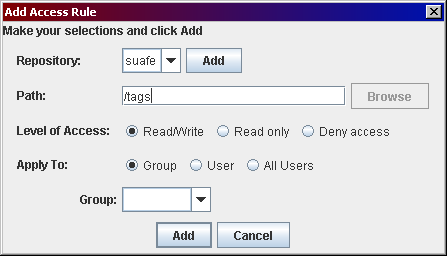
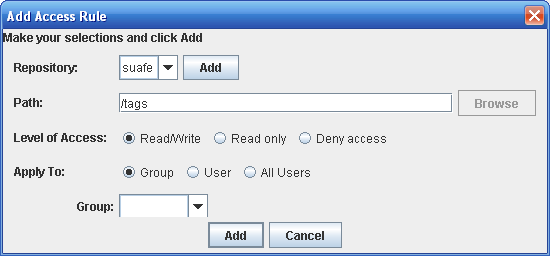
Fixed problems with add remove members and change membership dialogs. Updated help documentation and refreshed some screenshots. Added file operation buttons to the toolbar.

Changed region(s): [[0.0, 0.0, 1.0, 1.0]]

diff --git a/src/org/xiaoniu/suafe/resources/help/en/access_rules_tab.html b/src/org/xiaoniu/suafe/resources/help/en/access_rules_tab.html
@@ -1,0 +1,50 @@
+<html>
+<head>
+<title>Access Rules Tab</title>
+</head>
+<body>
+<h1>Access Rules Tab</h1>
+
+<h2>Overview</h2>
+<p>
+The Access Rules Tab consists of three sections. The left list displays all 
+repositories and paths defined in the authorization file formatted as a tree. 
+The right side displays all access rules for the item selected on in the tree. 
+Selecting Server displays all access rules, including server level access rules.
+Selecting a repository displays all access rules for that repository and 
+selecting a path displays all access rules for the path.
+</p>
+
+<img src="access_rules_tab.png" alt="Access Rules tab" />
+
+<h2>Actions</h2>
+<p>
+Located below the tree of repositories and paths are the repository/path action
+buttons. These buttons change depending on the item selected in the tree. When
+a repository item is selected the Edit Repository and Delete Repository action
+buttons are available. WHen a path item is selected the Edit Path and Delete
+Path action buttons are available. No actions are available when Server is
+selected.
+</p>
+
+<p>
+Located below the table of access rules are the access rule action buttons.
+Edit and Delete Access Rule buttons are available. Double-clicking an Access
+Rule opens the access rule in the edit access rule window.
+</p>
+
+<p>
+New repositories may be added in the Add Access Rule screen. New paths are 
+added automatically when a unknown path is entered in the Add Access Rule 
+screen. 
+</p>
+
+<h2>Considerations</h2>
+<p>
+Editing or deleting a repository will modify or delete all access rules defined
+for that repository. Editing or deleting a path will modify or delete all 
+access rules defined for that path.
+</p>
+
+</body>
+</html>

diff --git a/src/org/xiaoniu/suafe/resources/help/en/groups_tab.html b/src/org/xiaoniu/suafe/resources/help/en/groups_tab.html
@@ -1,0 +1,51 @@
+<html>
+<head>
+<title>Groups Tab</title>
+</head>
+<body>
+<h1>Groups Tab</h1>
+
+<h2>Overview</h2>
+<p>
+The Groups Tab consists of three sections. The far left list displays all 
+current defined groups. The upper right section displays all members of the
+currently selected group. The lower right section displays all access rules 
+that reference the currently selected group. Selecting a different group
+automatically refreshes the two right sections.
+</p>
+
+<img src="groups_tab.png" alt="Groups tab" />
+
+<h2>Actions</h2>
+<p>
+Located group list are the group action buttons. Clicking on Add
+allows you to add another group. Clicking edit displays the edit screen for all
+currently selected groups. Clicking delete deletes all currently selected 
+groups.
+</p>
+
+<p>
+Below the group members list is the Add/Remove Members action button. This
+allows you to add and remove members from the selected groups.
+</p>
+
+<p>
+Double-clicking on a group in the group list displays the edit screen for the
+selected group. Double-clicking on a member name in the member list displays
+the member. Selected groups and group details are displayed in the Groups tab
+and users and user details are displayed in the 
+<a href="users_tab.html">Users Tab</a>.
+</p>
+
+<h2>Considerations</h2>
+<p>
+Groups with no members and groups that are not referenced are persisted.
+</p>
+
+<p>
+Deleting a group also deletes all access rules that reference that group. Group
+members are not deleted.
+</p>
+
+</body>
+</html>

diff --git a/src/org/xiaoniu/suafe/resources/help/en/users_tab.html b/src/org/xiaoniu/suafe/resources/help/en/users_tab.html
@@ -18,16 +18,18 @@ user automatically refreshes the two right sections.
 
 <h2>Actions</h2>
 <p>
-Located above the list of groups are the user action buttons. Clicking on Add
+Located below the user list are the user action buttons. Clicking on Add
 allows you to add another user. Clicking edit displays the edit screen for all
-currently selected users. Clicking delete deletes all currently selected users
-as well as all access rules that reference the user.
+currently selected users. Clicking delete deletes all currently selected users.
 </p>
 
-<img src="users_action_buttons.png" alt="User action buttons" />
+<p>
+Below the group list box is the Change Group Membership action button. This
+allows you to add/remove the user from defined groups.
+</p>
 
 <p>
-Double-clicking on a user in the user list displays the edit screen for the
+Double-clicking on a user name in the user list displays the edit screen for the
 selected user. Double-clicking on a group name in the group list displays
 the group and group details in the <a href="groups_tab.html">Groups Tab</a>.
 </p>
@@ -36,6 +38,10 @@ the group and group details in the <a href="groups_tab.html">Groups Tab</a>.
 <p>
 Users created, but not referenced by any access rules or made a member of a 
 group will not be persisted when the file is saved.
+</p>
+
+<p>
+Deleting a user will delete all access rules defined for that user.
 </p>
 
 </body>

diff --git a/src/org/xiaoniu/suafe/resources/help/en/main_screen.html b/src/org/xiaoniu/suafe/resources/help/en/main_screen.html
@@ -1,0 +1,27 @@
+<html>
+<head>
+<title>Main Screen</title>
+</head>
+
+<body>
+<h1>Main Screen</h1>
+
+<p>
+The main screen consists of a toolbar and three tabs.
+
+<ul>
+<li><a href="toolbar.html">Toolbar</a></li>
+<li><a href="users_tab.html">Users Tab</a></li>
+<li><a href="groups_tab.html">Groups Tab</a></li>
+<li><a href="access_rules_tab.html">Access Rules Tab</a></li>
+</ul>
+
+The toolbar provides quick access to general file actions as well as quick
+access to add users, groups and access rules. Select one of the three tabs to
+view and manipulate the lists of users, groups or access rules. The preview
+button generates an authz file and displays it for your review. Changes to the 
+contents of the preview window are not persisted; preview is for review only.
+</p>
+
+</body>
+</html>

diff --git a/src/org/xiaoniu/suafe/resources/help/en/toc.html b/src/org/xiaoniu/suafe/resources/help/en/toc.html
@@ -13,12 +13,15 @@
 <li><a href="limitations.html">Limitations</a></li>
 <li><a href="gpl_license.txt">GNU General Public License</a></li>
 <li><a href="tmate_license.html">The TMate License</a></li>
+<li><a href="files.html">Authorization Files</a></li>
 </ul>
 
 <strong>Using Suafe</strong>
 <ul>
-<li><a href="files.html">Authorization Files</a></li>
+<li><a href="main_screen.html">Main Screen</a></li>
 <li><a href="users_tab.html">Users Tab</a></li>
+<li><a href="groups_tab.html">Groups Tab</a></li>
+<li><a href="access_rules_tab.html">Access Rules Tab</a></li>
 </ul>
 
 </body>

diff --git a/src/org/xiaoniu/suafe/frames/MainFrame.java b/src/org/xiaoniu/suafe/frames/MainFrame.java
@@ -119,6 +119,11 @@ public class MainFrame extends BaseFrame implements ActionListener, KeyListener,
 		ListSelectionListener, MouseListener, TreeSelectionListener, WindowListener {
 	
 	private static final long serialVersionUID = -4378074679449146788L;
+	private ImageIcon newIcon = new ImageIcon(getClass().getResource("/org/xiaoniu/suafe/resources/toolbarButtonGraphics/general/New16.gif"));
+	private ImageIcon openIcon = new ImageIcon(getClass().getResource("/org/xiaoniu/suafe/resources/toolbarButtonGraphics/general/Open16.gif"));
+	private ImageIcon saveIcon = new ImageIcon(getClass().getResource("/org/xiaoniu/suafe/resources/toolbarButtonGraphics/general/Save16.gif"));
+	private ImageIcon saveAsIcon = new ImageIcon(getClass().getResource("/org/xiaoniu/suafe/resources/toolbarButtonGraphics/general/SaveAs16.gif"));
+	
 	private ImageIcon pathEditIcon = new ImageIcon(getClass().getResource("/org/xiaoniu/suafe/resources/PathEdit.gif"));
 	private ImageIcon pathDeleteIcon = new ImageIcon(getClass().getResource("/org/xiaoniu/suafe/resources/PathDelete.gif"));
 	private ImageIcon repositoryEditIcon = new ImageIcon(getClass().getResource("/org/xiaoniu/suafe/resources/RepositoryEdit.gif"));
@@ -189,6 +194,14 @@ public class MainFrame extends BaseFrame implements ActionListener, KeyListener,
 
 	private JButton addUserToolbarButton = null;
 
+	private JButton newToolbarButton = null;
+	
+	private JButton openToolbarButton = null;
+	
+	private JButton saveToolbarButton = null;
+	
+	private JButton saveAsToolbarButton = null;
+	
 	private JButton addGroupToolbarButton = null;  
 
 	private JButton previewToolbarButton = null;
@@ -632,7 +645,11 @@ public class MainFrame extends BaseFrame implements ActionListener, KeyListener,
 	private JToolBar getActionToolBar() {
 		if (actionToolBar == null) {
 			actionToolBar = new JToolBar();
-			actionToolBar.setFloatable(true);
+			actionToolBar.setFloatable(false);
+			actionToolBar.add(getNewToolbarButton());
+			actionToolBar.add(getOpenToolbarButton());
+			actionToolBar.add(getSaveToolbarButton());
+			actionToolBar.add(getSaveAsToolbarButton());			
 			actionToolBar.add(getAddUserToolbarButton());
 			actionToolBar.add(getAddGroupToolbarButton());
 			actionToolBar.add(getAddAccessRuleButton());
@@ -641,6 +658,70 @@ public class MainFrame extends BaseFrame implements ActionListener, KeyListener,
 		return actionToolBar;
 	}
 
+	/**
+	 * This method initializes jButton
+	 * 
+	 * @return javax.swing.JButton
+	 */
+	private JButton getNewToolbarButton() {
+		if (newToolbarButton == null) {
+			newToolbarButton = new JButton();
+			newToolbarButton.setActionCommand("NewFile");
+			newToolbarButton.setIcon(newIcon);
+			newToolbarButton.setToolTipText(ResourceUtil.getString("mainframe.button.new.tooltip"));
+			newToolbarButton.addActionListener(this);
+		}
+		return newToolbarButton;
+	}
+	
+	/**
+	 * This method initializes jButton
+	 * 
+	 * @return javax.swing.JButton
+	 */
+	private JButton getOpenToolbarButton() {
+		if (openToolbarButton == null) {
+			openToolbarButton = new JButton();
+			openToolbarButton.setActionCommand("OpenFile");
+			openToolbarButton.setIcon(openIcon);
+			openToolbarButton.setToolTipText(ResourceUtil.getString("mainframe.button.open.tooltip"));
+			openToolbarButton.addActionListener(this);
+		}
+		return openToolbarButton;
+	}
+	
+	/**
+	 * This method initializes jButton
+	 * 
+	 * @return javax.swing.JButton
+	 */
+	private JButton getSaveToolbarButton() {
+		if (saveToolbarButton == null) {
+			saveToolbarButton = new JButton();
+			saveToolbarButton.setActionCommand("SaveFile");
+			saveToolbarButton.setIcon(saveIcon);
+			saveToolbarButton.setToolTipText(ResourceUtil.getString("mainframe.button.save.tooltip"));
+			saveToolbarButton.addActionListener(this);
+		}
+		return saveToolbarButton;
+	}
+	
+	/**
+	 * This method initializes jButton
+	 * 
+	 * @return javax.swing.JButton
+	 */
+	private JButton getSaveAsToolbarButton() {
+		if (saveAsToolbarButton == null) {
+			saveAsToolbarButton = new JButton();
+			saveAsToolbarButton.setActionCommand("SaveFileAs");
+			saveAsToolbarButton.setIcon(saveAsIcon);
+			saveAsToolbarButton.setToolTipText(ResourceUtil.getString("mainframe.button.saveas.tooltip"));
+			saveAsToolbarButton.addActionListener(this);
+		}
+		return saveAsToolbarButton;
+	}
+	
 	/**
 	 * This method initializes jButton
 	 * 
